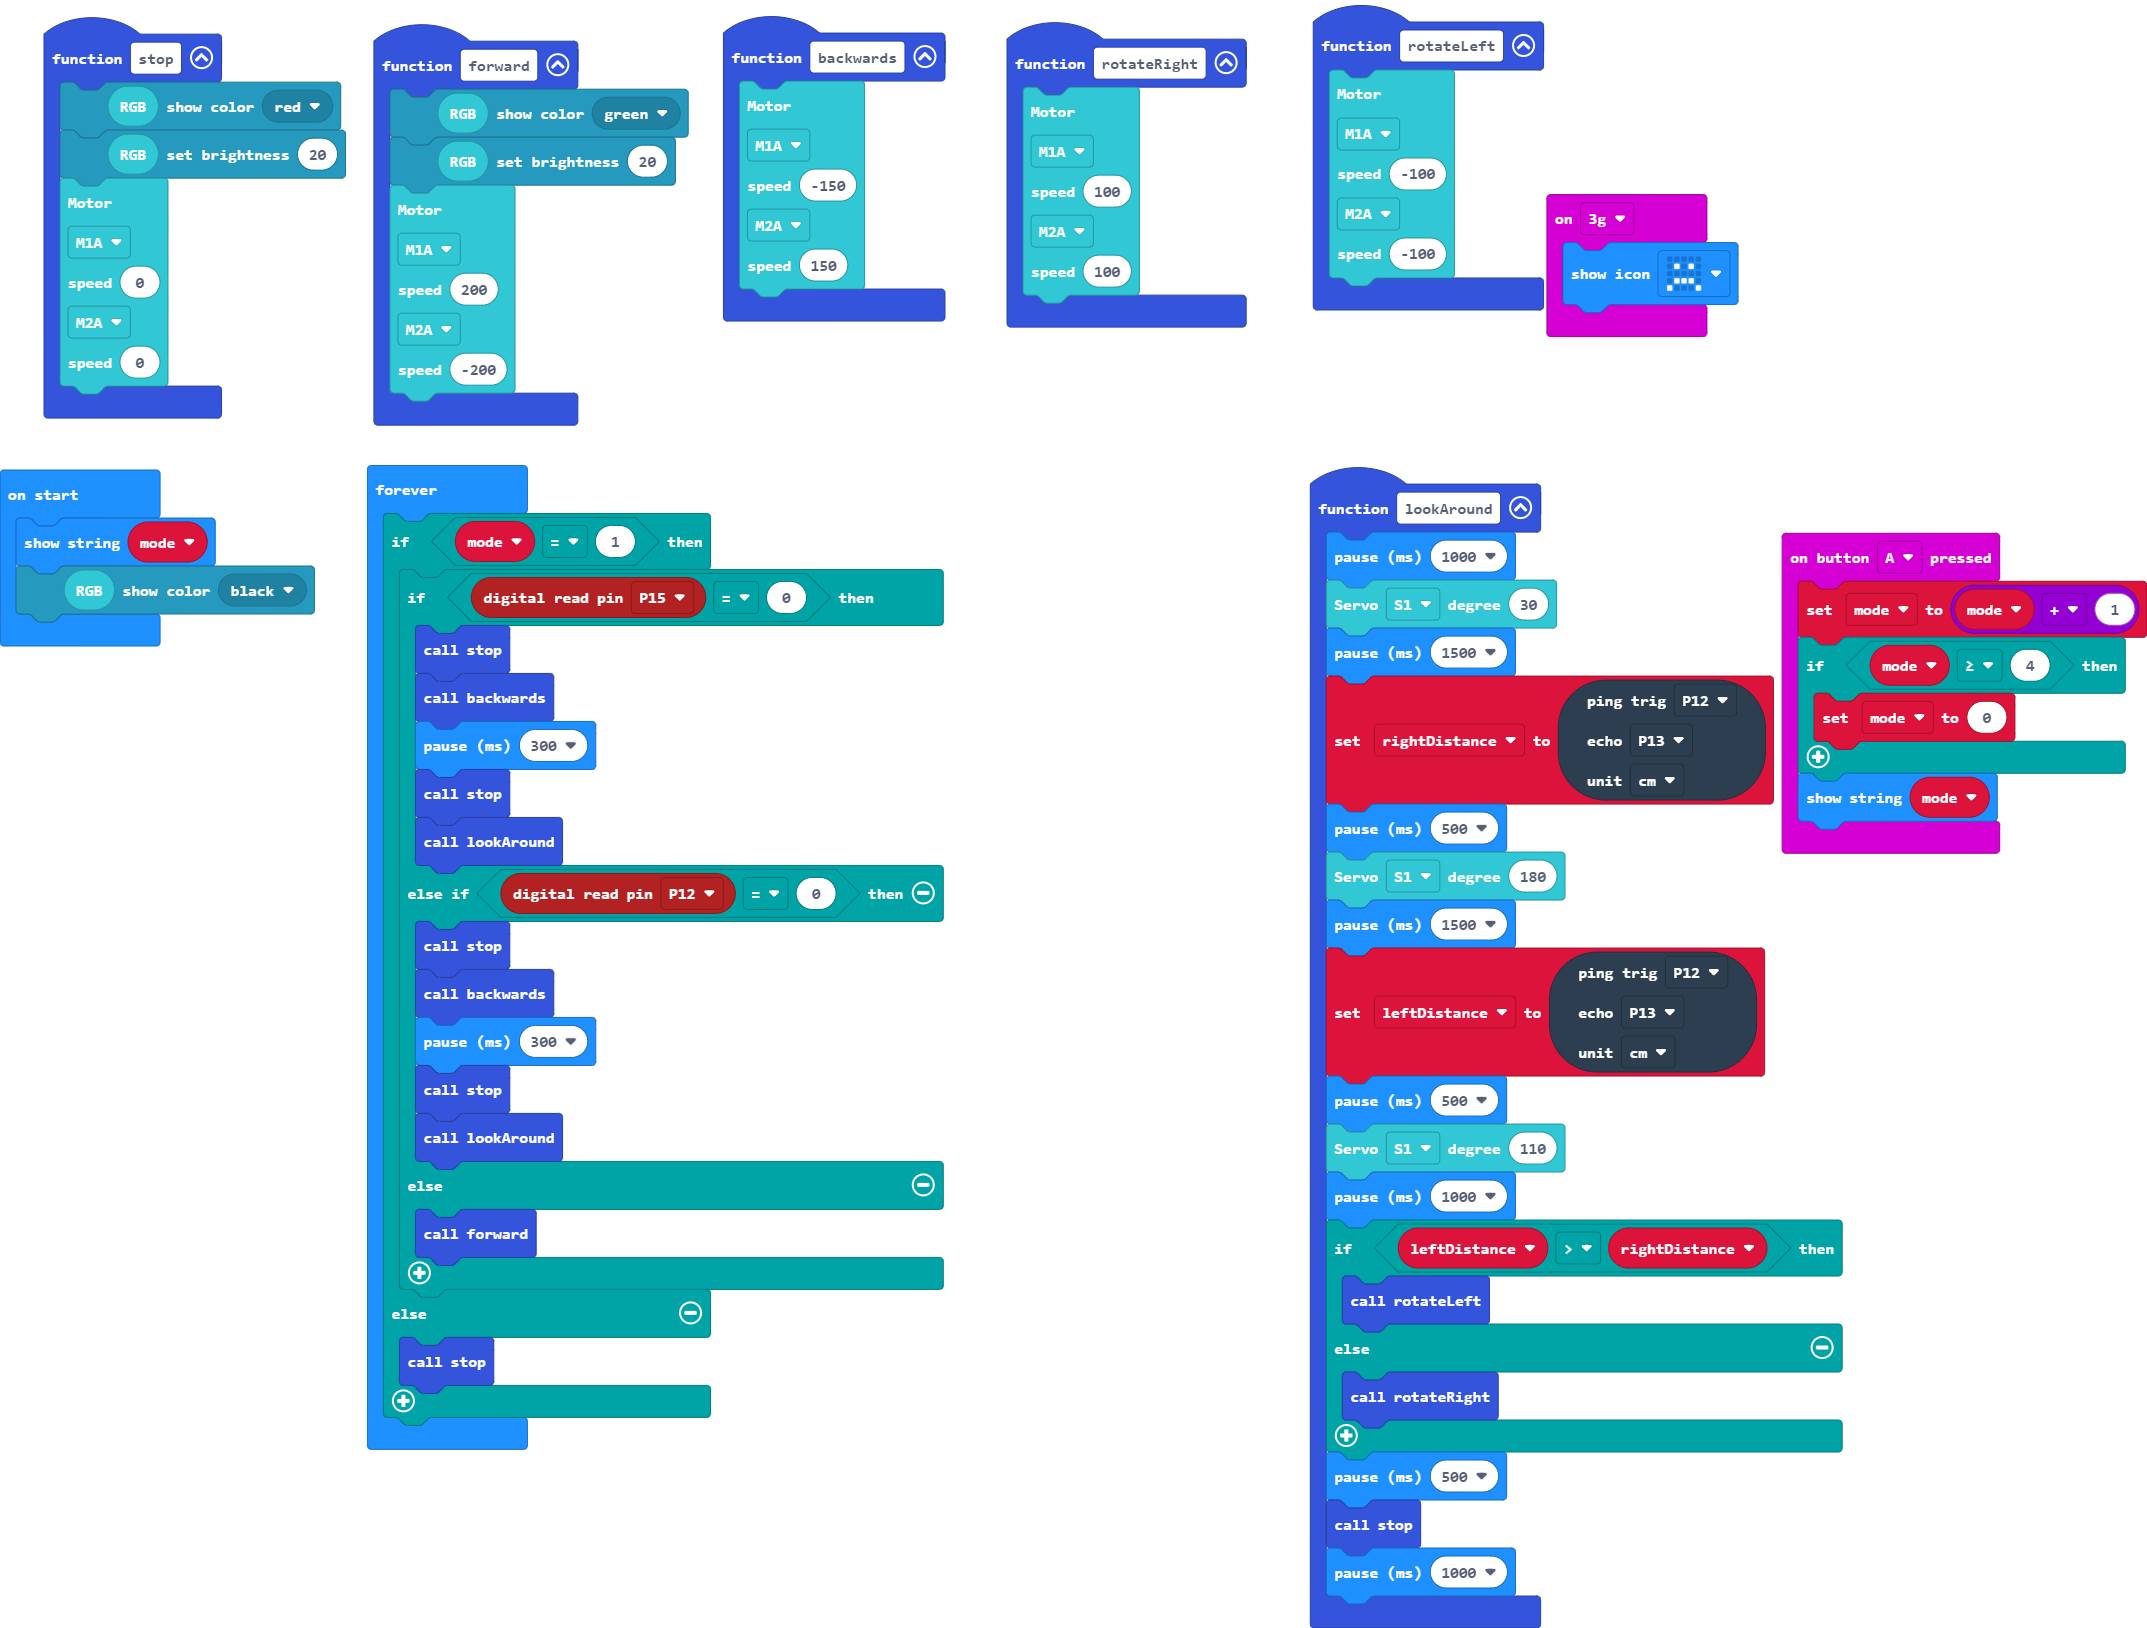
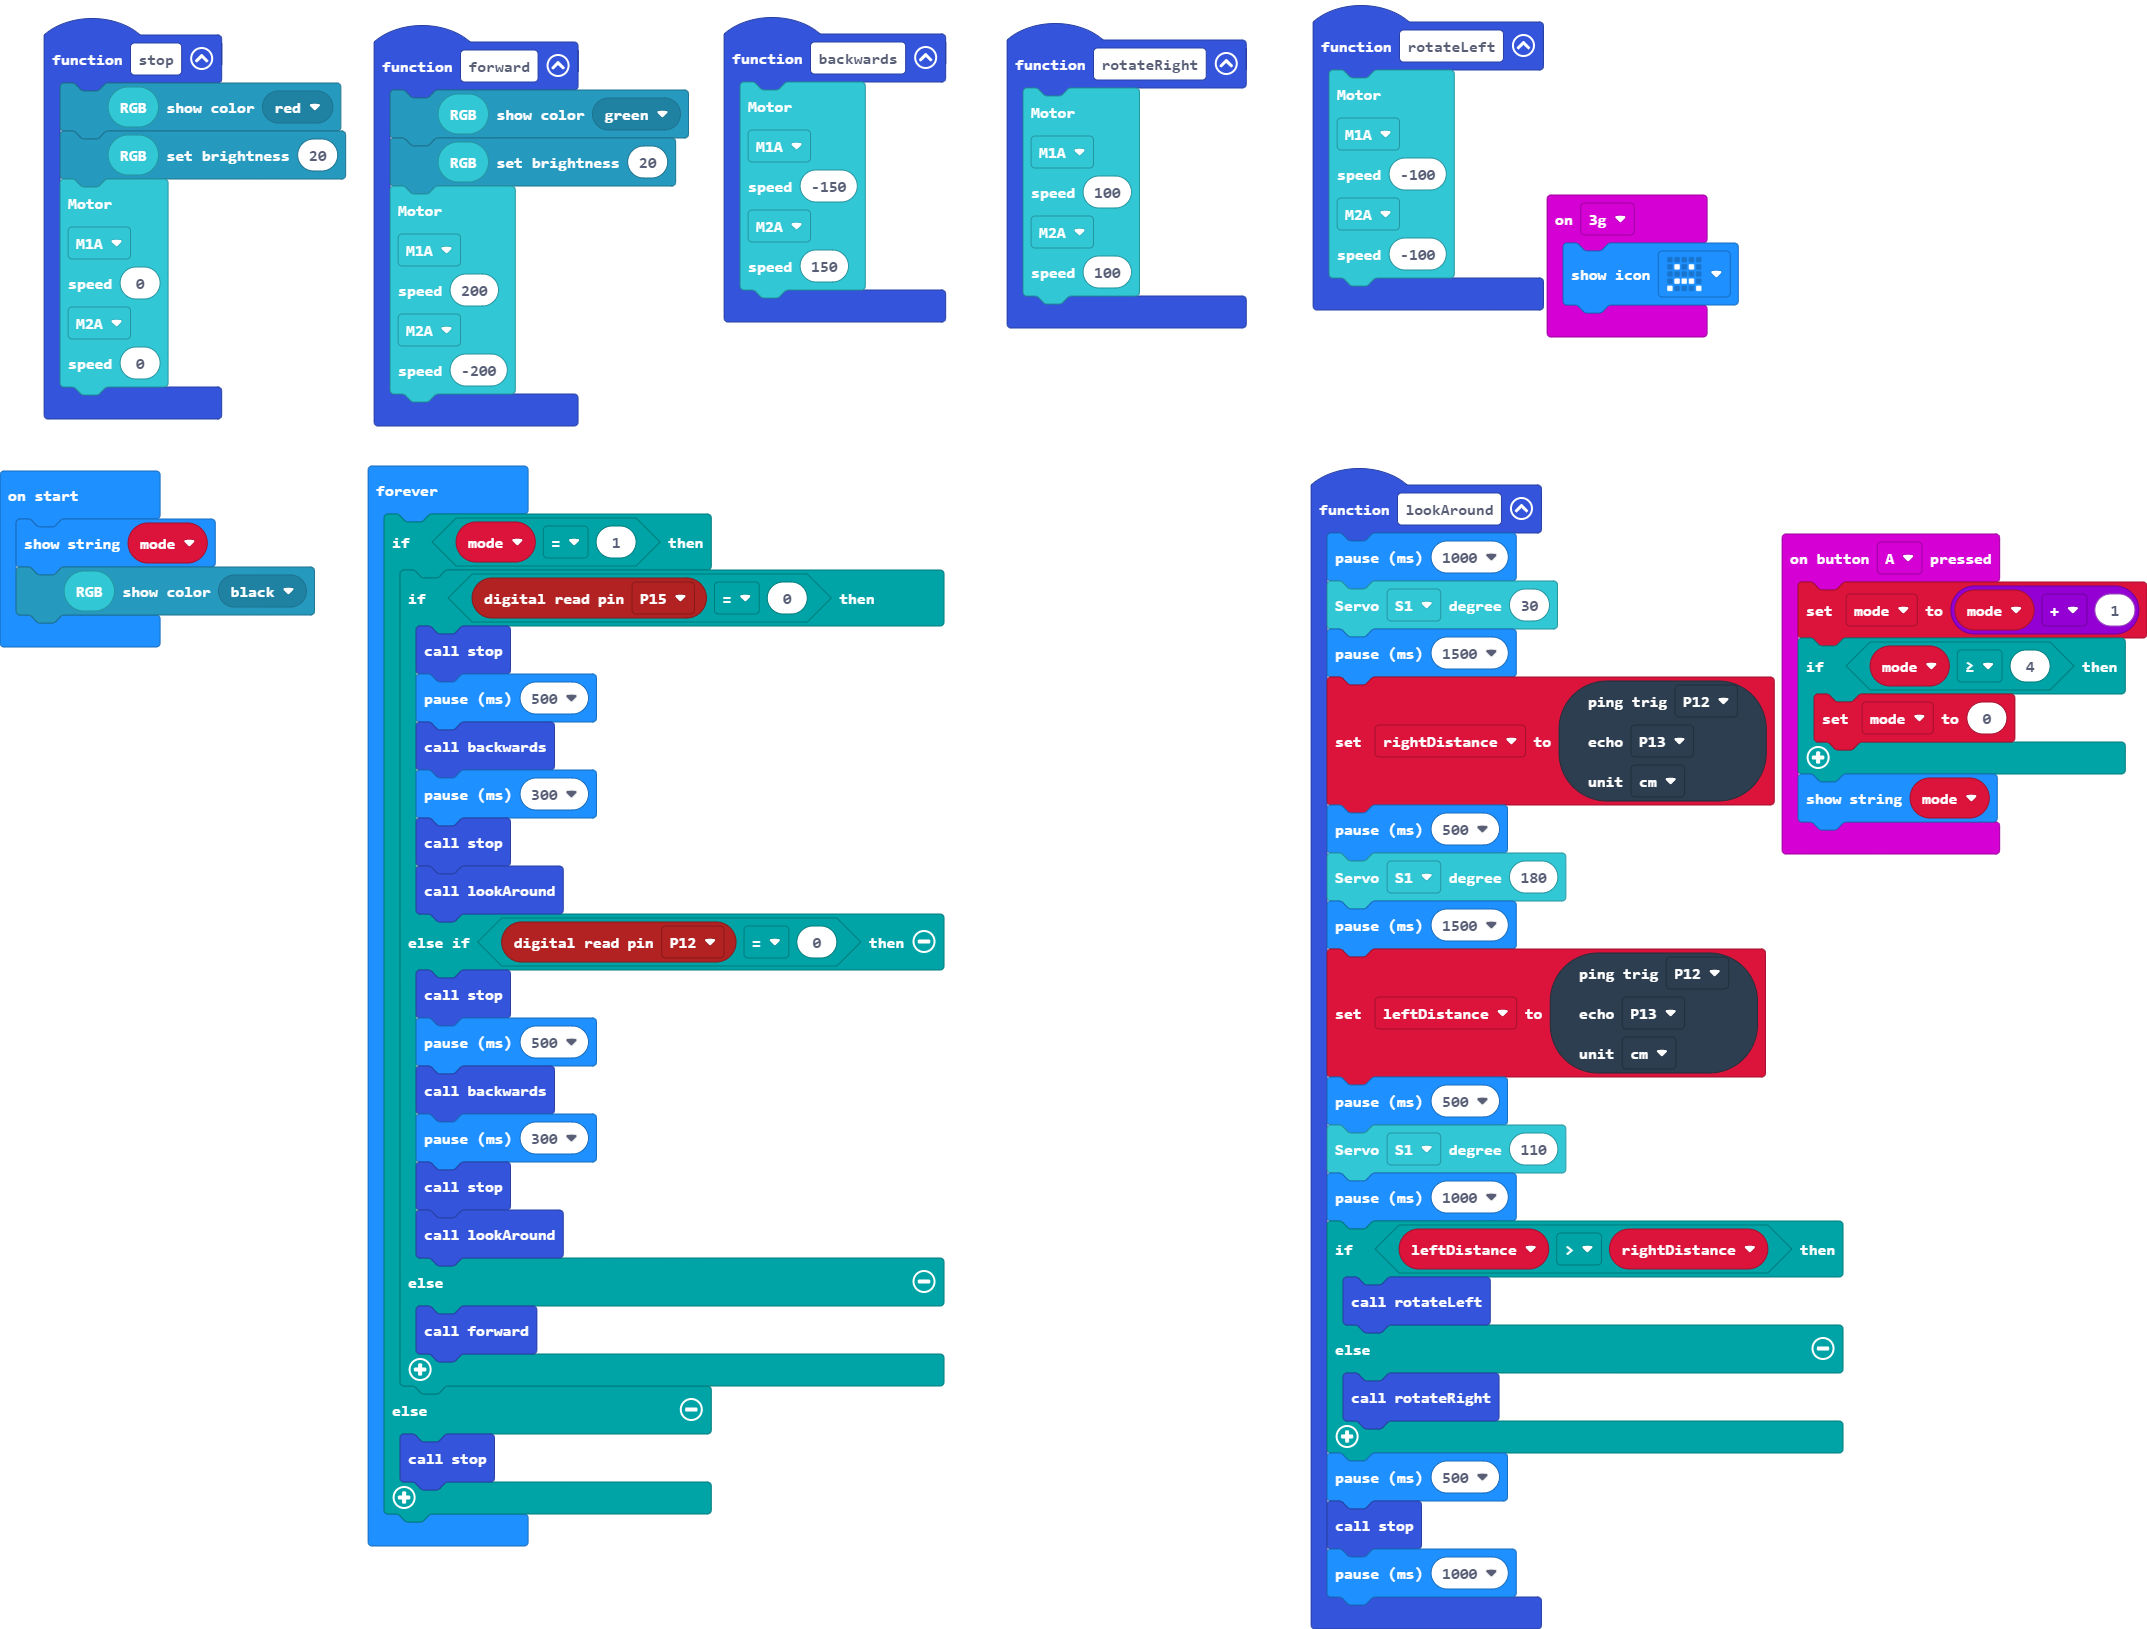
Pause when break

diff --git a/main.ts b/main.ts
@@ -90,12 +90,14 @@ basic.forever(function () {
     if (mode == 1) {
         if (pins.digitalReadPin(DigitalPin.P15) == 0) {
             stop()
+            basic.pause(500)
             backwards()
             basic.pause(300)
             stop()
             lookAround()
         } else if (pins.digitalReadPin(DigitalPin.P12) == 0) {
             stop()
+            basic.pause(500)
             backwards()
             basic.pause(300)
             stop()
